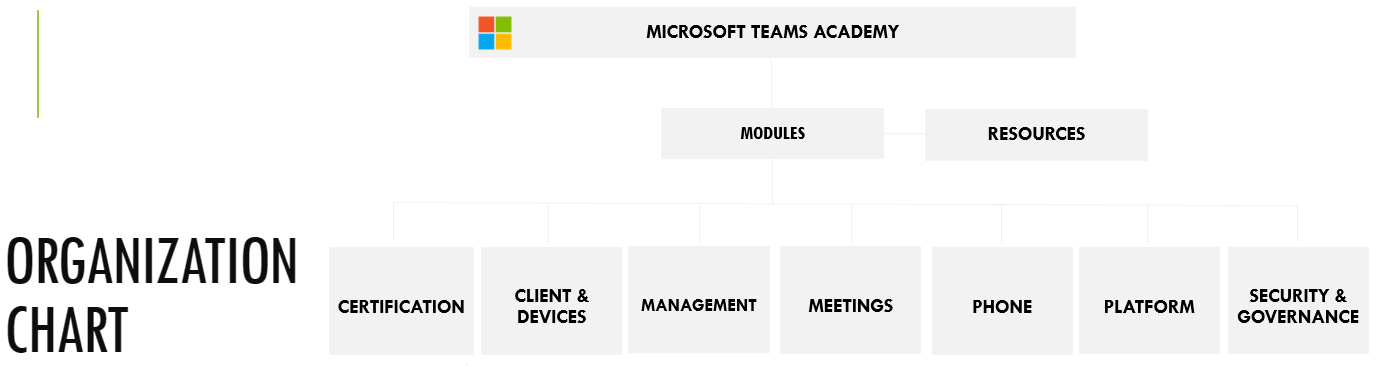
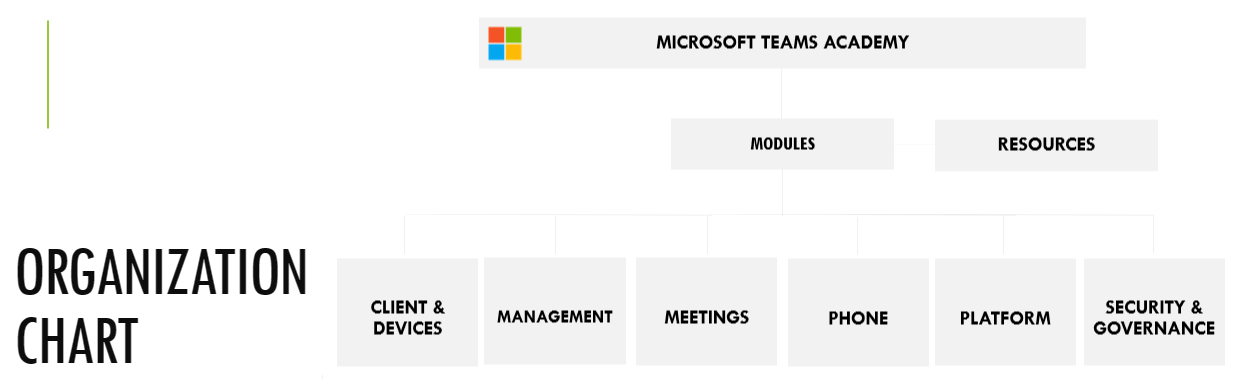
More Testing

diff --git a/_docs/Skilling/Microsoft Security Academy/Resources/Security Copilot.md b/_docs/Skilling/Microsoft Security Academy/Resources/Security Copilot.md
@@ -2,7 +2,7 @@
 layout: page
 title: Microsoft Security Copilot
 description: Resources for Microsoft Security Copilot
-updated: 2023-06-21
+updated: 2023-07-31
 permalink: /security/microsoft-security-academy/microsoft-security-copilot
 tags:
 - security
@@ -23,7 +23,7 @@ We first introduced Security Copilot at the inaugural Microsoft Secure. Microsof
 
 If you have an existing NDA with Microsoft, join our [Microsoft Security Copilot Limited Customer Connection Program (CCP)](https://forms.office.com/pages/responsepage.aspx?id=v4j5cvGGr0GRqy180BHbR_XAVZ7AP_VPg7dX-69WxXdUQ1ZNUUVQOFNZOUtVSzdTNTFCMUEyQkVUQi4u).
 
-Read Vasu Jakkal's, Security, Compliance, Identity, and Management Corporate Vice President, [Microsoft Inspire Blog](https://www.microsoft.com/en-us/security/blog/2023/07/18/microsoft-inspire-partner-resources-to-prepare-for-the-future-of-security-with-ai/) detailing partner resources to prepare for the future of security with AI.
+**Read Vasu Jakkal's -- Security, Compliance, Identity, and Management Corporate Vice President -- [Microsoft Inspire Blog](https://www.microsoft.com/en-us/security/blog/2023/07/18/microsoft-inspire-partner-resources-to-prepare-for-the-future-of-security-with-ai/) detailing partner resources to prepare for the future of security with AI.**
 
 **See our [Microsoft Security Academy](https://microsoft.github.io/PartnerResources/skilling/microsoft-security-academy)** for more video sessions, demos, and other related materials created and delivered by architects across the Global Partner Solutions (GPS) security-aligned team and beyond.
 
@@ -46,14 +46,9 @@ Download the PowerPoint for Maximizing Customer Success with Azure AI and Secu
 
 ## Keeping Up
 
-Visit the [Microsoft Security Copilot Homepage](https://www.microsoft.com/en-us/security/business/ai-machine-learning/microsoft-security-copilot) and [Microsoft Security Copilot Blog Post](https://blogs.microsoft.com/blog/2023/03/28/introducing-microsoft-security-copilot-empowering-defenders-at-the-speed-of-ai/) to get started.
+Visit the [Microsoft Security Copilot Homepage](https://www.microsoft.com/en-us/security/business/ai-machine-learning/microsoft-security-copilot) to get started.
 
 Visit our [Readiness Resources for Azure OpenAI](https://microsoft.github.io/PartnerResources/azure/data-analytics-ai/openai) and [AI & ML Academy](https://microsoft.github.io/PartnerResources/skilling/ai-ml-academy) to see additional information related to Azure OpenAI, ChatGPT, and more.
-
-
-## Events
-
-Stay tuned for more event announcements!
 
 
 ## Azure OpenAI Integrations
@@ -87,7 +82,7 @@ Security Copilot integrates insights and data from other critical security tools
 
 ## Community Resources
 
-* [John Savill's Trusting Your Copilot](https://youtu.be/7zT_T5TtZqs)
+* [15 Tips to Become a Better Prompt Engineer for Generative AI](https://techcommunity.microsoft.com/t5/azure-ai-services-blog/15-tips-to-become-a-better-prompt-engineer-for-generative-ai/ba-p/3882935?utm_source=substack&utm_medium=email)
 * [Prompt Engineering Techniques](https://learn.microsoft.com/en-us/azure/cognitive-services/openai/concepts/advanced-prompt-engineering?pivots=programming-language-chat-completions)
 * [OpenAI's GPT Best Practices](https://platform.openai.com/docs/guides/gpt-best-practices)
 * [Grounding LLMs](https://techcommunity.microsoft.com/t5/fasttrack-for-azure/grounding-llms/ba-p/3843857)

diff --git a/_docs/Skilling/Teams Academy/Modules.md b/_docs/Skilling/Teams Academy/Modules.md
@@ -15,6 +15,6 @@ tags:
 
 ### Modules
 
-The Microsoft Teams Academy's Modules are organized into seven smaller categories, including [Certification](https://microsoft.github.io/PartnerResources/skilling/microsoft-teams-academy/certification), [Client & Devices](https://microsoft.github.io/PartnerResources/skilling/microsoft-teams-academy/client-devices), [Management](https://microsoft.github.io/PartnerResources/skilling/microsoft-teams-academy/management), [Meetings](https://microsoft.github.io/PartnerResources/skilling/microsoft-teams-academy/meetings), [Phone](https://microsoft.github.io/PartnerResources/skilling/microsoft-teams-academy/phone), [Platform](https://microsoft.github.io/PartnerResources/skilling/microsoft-teams-academy/platform), and [Security & Governance](https://microsoft.github.io/PartnerResources/skilling/microsoft-teams-academy/security).
+The Microsoft Teams Academy's Modules are organized into seven smaller categories, including [Client & Devices](https://microsoft.github.io/PartnerResources/skilling/microsoft-teams-academy/client-devices), [Management](https://microsoft.github.io/PartnerResources/skilling/microsoft-teams-academy/management), [Meetings](https://microsoft.github.io/PartnerResources/skilling/microsoft-teams-academy/meetings), [Phone](https://microsoft.github.io/PartnerResources/skilling/microsoft-teams-academy/phone), [Platform](https://microsoft.github.io/PartnerResources/skilling/microsoft-teams-academy/platform), and [Security & Governance](https://microsoft.github.io/PartnerResources/skilling/microsoft-teams-academy/security).
 
 ![Teams Organizational Chart]({{ site.baseurl }}/assets/msa/Teams Organization Chart.png)

diff --git a/_docs/Skilling/Microsoft Security Academy/index.md b/_docs/Skilling/Microsoft Security Academy/index.md
@@ -18,7 +18,7 @@ Are you a seasoned professional looking to elevate your cybersecurity skills? St
 
 In addition to the modules, the Microsoft Security Academy's **[Resources](/PartnerResources/skilling/microsoft-security-academy/resources)** complement the **[Modules](/PartnerResources/skilling/microsoft-security-academy/modules)** and enable you to explore cybersecurity concepts in greater detail, stay up-to-date with developments, and gain practical insights to apply in real-world scenarios.
 
-**Explore our new resources on [Microsoft Security Copilot](/security/microsoft-security-academy/microsoft-security-copilot) and remain up-to-date with [Microsoft Security news and highlights](https://learn.microsoft.com/en-us/security/engineering/news-and-highlights).**
+**Explore our new resources on [Microsoft Security Copilot](https://microsoft.github.io/PartnerResources/security/microsoft-security-copilot) and remain up-to-date with [Microsoft Security news and highlights](https://learn.microsoft.com/en-us/security/engineering/news-and-highlights).**
 
 ## Organization
 ![MSA Organizational Chart]({{ site.baseurl }}/assets/msa/MSA Organization Chart.png)

diff --git a/_docs/Skilling/Microsoft Security Academy/Getting Started.md b/_docs/Skilling/Microsoft Security Academy/Getting Started.md
@@ -20,8 +20,10 @@ Welcome to cybersecurity! Browse our curated collection of resources to help you
 
 ## Definition Cookbook
 | Concept       | Definition    |
-| ------------- |:-------------:|
+| ------------- |-------------  |
 | [Shared Responsibility Model](https://learn.microsoft.com/en-us/azure/security/fundamentals/shared-responsibility) | A security and compliance framework that outlines the responsibilities of cloud service providers (CSPs) and customers for securing every aspect of the cloud environment. |
+
+
 | Logging or Auditing | ‘Logging’ or ‘Auditing’ means that information systems are recording important events such as system-level events, and the creation, modification, or deletion of objects within the system. |
 | [Incident Response](https://learn.microsoft.com/en-us/security/operations/incident-response-overview) | The practice of investigating and remediating active attack campaigns on your organization. |
 

diff --git a/_docs/Skilling/Teams Academy/content/Phone/configuring.md b/_docs/Skilling/Teams Academy/content/Phone/configuring.md
@@ -2,7 +2,7 @@
 layout: page
 title: Configuring and Managing Teams Phone Direct Routing
 sorttitle: Configuring and Managing Teams Phone Direct Routing
-description: In this session, we cover all the elements of Teams Phone Direct routing, including Session Border Controllers (SBC), Voice Routing policies, dial plans, translation of phone numbers, and how the entire call flow pairs with Direct Routing.
+description: In this session, we cover all the elements of Teams Phone Direct Routing, including Session Border Controllers (SBC), Voice Routing policies, dial plans, translation of phone numbers, and how the entire call flow pairs with Direct Routing.
 updated: 2022-02-27
 permalink: /skilling/microsoft-teams-academy/phone/configuring-and-managing
 youtubeid: mA0GeI1NSsk

diff --git a/_docs/Skilling/Teams Academy/pages/security and governance.md b/_docs/Skilling/Teams Academy/pages/security and governance.md
@@ -21,5 +21,5 @@ Embark on an exciting journey into Security & Governance with the Microsoft Team
     includetags="microsoft teams academy|academy content|security & compliance" 
     includemethod="all" 
     sortfield="updated" sortorder="desc" showdate="false" showtags="true"
-    visualstyle="normal"
+    visualstyle="list"
 %}

diff --git a/_docs/Skilling/Teams Academy/Resources/Management/Adoption & Change Management.md b/_docs/Skilling/Teams Academy/Resources/Management/Adoption & Change Management.md
@@ -6,7 +6,7 @@ updated: 2021-12-01
 permalink: /modern-workplace/management/adoption-and-change-management
 tags:
 - learning plan
-- modern workplace resources
+- modern workplace
 - modern workplace management
 ---
 

diff --git a/_docs/Skilling/Teams Academy/Resources/Management/index.md b/_docs/Skilling/Teams Academy/Resources/Management/index.md
@@ -4,5 +4,5 @@ title: Modern Workplace Management Readiness Resources
 permalink: /modern-workplace/management/
 includemethod: all
 includeplans:
- - modern workplace resources
+ - modern workplace management
 ---

diff --git a/_docs/Skilling/Teams Academy/Resources/Management/Autopilot Learning Plan.md b/_docs/Skilling/Teams Academy/Resources/Management/Autopilot Learning Plan.md
@@ -6,7 +6,7 @@ updated: 2021-12-01
 permalink: /modern-workplace/management/autopilot-learning-plan
 tags:
 - learning plan
-- modern workplace resources
+- modern workplace
 - modern workplace management
 ---
 

diff --git a/_docs/Skilling/Teams Academy/Resources.md b/_docs/Skilling/Teams Academy/Resources.md
@@ -4,5 +4,5 @@ title: Modern Workplace Readiness Resources
 permalink: /modern-workplace/
 showbreadcrumb: false
 includesection:
-- Modern Workplace
+- modern workplace
 ---
